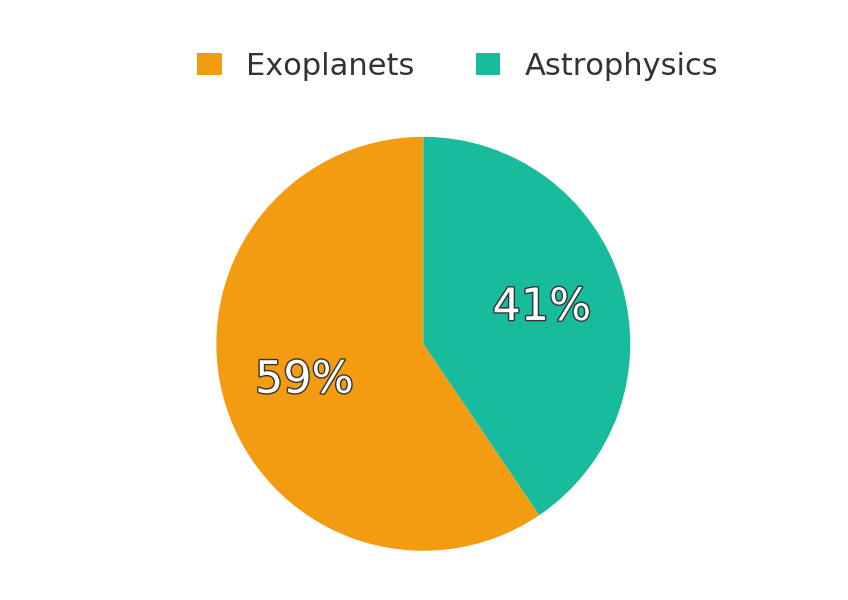
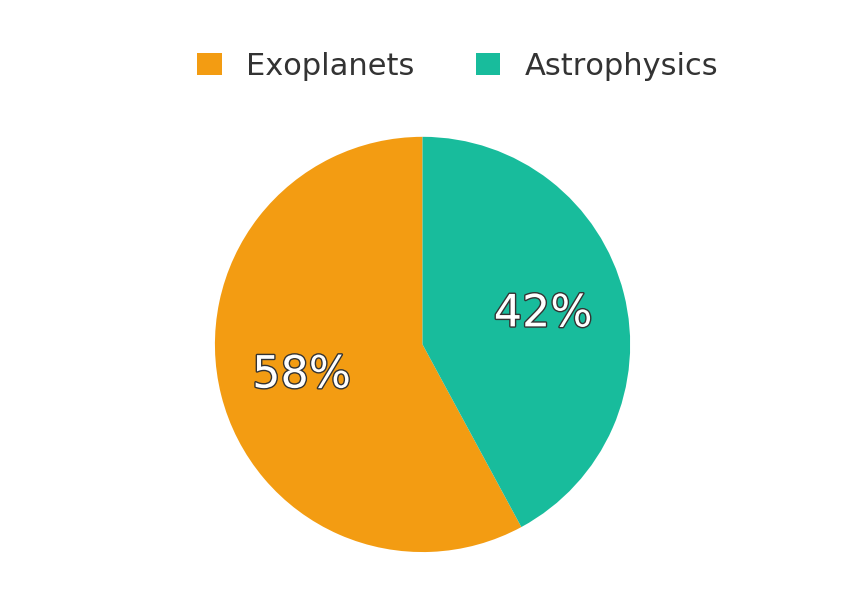
Generate dev site

diff --git a/publications.html b/publications.html
@@ -149,7 +149,7 @@ the TESS mission is provided by the NASA Explorer Program.</em></p>
 <h2 id="publication-database">Publication database</h2>
 <p>The TESS Science Support Center curates a list of scientific publications
 pertaining to TESS.
-The database contains 37 publications,
+The database contains 38 publications,
 of which 22 are peer-reviewed.
 It demonstrates the important impact of TESS data
 on astronomical research.</p>
@@ -164,7 +164,7 @@ on astronomical research.</p>
 </ul>
 <p>If you spot an error in the database, such as a missing entry,
 please get in touch or open an issue in the <a href="https://github.com/tessgi/tpub">GitHub repository</a> of the database.</p>
-<p>Last update: 24 Aug 2017.</p>
+<p>Last update: 10 Sep 2017.</p>
 <hr/>
 <h2 id="breakdown-by-year-mission">Breakdown by year &amp; mission</h2>
 <p>The graph below shows the number of publications as a function
@@ -175,15 +175,15 @@ of year.</p>
 <p>Both TESS data have been used for scientific applications
 that reach far beyond exoplanet research.
 While 22 works relate to exoplanets
-(59%),
-a total of 15
+(58%),
+a total of 16
 pertain to other areas of astrophysics
-(41%).</p>
+(42%).</p>
 <p><img alt="Publications by subject" src="images/tpub/tpub-piechart.png"/></p>
 <hr/>
 <h2 id="most-cited-publications">Most-cited publications</h2>
 <p>TESS publications have cumulatively been cited
-413 times.
+434 times.
 The list below shows the most-cited publications,
 based on the citation count obtained from NASA ADS.</p>
 <ol>
@@ -191,25 +191,25 @@ based on the citation count obtained from NASA ADS.</p>
 <p>TRANSITING EXOPLANET SURVEY SATELLITE (TESS)<br/>
 Ricker, George R., Winn, Joshua N., Vanderspek, Roland, et al.  <br/>
 <a href="http://adsabs.harvard.edu/abs/2015JATIS...1a4003R">2015JATIS...1a4003R</a>
-<span class="badge">151 citations</span></p>
+<span class="badge">159 citations</span></p>
 </li>
 <li>
 <p>THE TRANSITING EXOPLANET SURVEY SATELLITE: SIMULATIONS OF PLANET DETECTIONS AND ASTROPHYSICAL FALSE POSITIVES<br/>
 Sullivan, Peter W., Winn, Joshua N., Berta-Thompson, Zachory K., et al.  <br/>
 <a href="http://adsabs.harvard.edu/abs/2015ApJ...809...77S">2015ApJ...809...77S</a>
-<span class="badge">70 citations</span></p>
+<span class="badge">74 citations</span></p>
 </li>
 <li>
 <p>CHARACTERIZING TRANSITING PLANET ATMOSPHERES THROUGH 2025<br/>
 Cowan, N. B., Greene, T., Angerhausen, D., et al.  <br/>
 <a href="http://adsabs.harvard.edu/abs/2015PASP..127..311C">2015PASP..127..311C</a>
-<span class="badge">32 citations</span></p>
+<span class="badge">35 citations</span></p>
 </li>
 <li>
 <p>UNDERSTANDING THE EFFECTS OF STELLAR MULTIPLICITY ON THE DERIVED PLANET RADII FROM TRANSIT SURVEYS: IMPLICATIONS FOR KEPLER, K2, AND TESS<br/>
 Ciardi, David R., Beichman, Charles A., Horch, Elliott P., et al.  <br/>
 <a href="http://adsabs.harvard.edu/abs/2015ApJ...805...16C">2015ApJ...805...16C</a>
-<span class="badge">24 citations</span></p>
+<span class="badge">26 citations</span></p>
 </li>
 <li>
 <p>THE TRANSITING EXOPLANET SURVEY SATELLITE MISSION<br/>
@@ -262,7 +262,7 @@ within the last 90 days.
 <!-- ## Most-active authors
 
 The entries in the publication database have been authored and co-authored
-by a total of 223 unique author names.
+by a total of 237 unique author names.
 Here we list the most-active authors, defined as those with six or more first-author publications in our database.
 
 -->

diff --git a/tpub-astrophysics-by-month.html b/tpub-astrophysics-by-month.html
@@ -34,13 +34,13 @@ in August 2015, using pelican-bootstrap and flatly.
 <link rel="canonical" href="./pages/tess-astrophysics-publications-by-month.html">
 
         <meta name="author" content="Thomas Barclay" />
-        <meta name="description" content="2017-07 THE TESS-HERMES SURVEY DATA RELEASE 1: HIGH-RESOLUTION SPECTROSCOPY OF THE TESS SOUTHERN CONTINUOUS VIEWING ZONE Sharma, Sanjib, Stello, Dennis, Buder, Sven, et al. 2017, pre-print (2017arXiv170705753S) 2017-06 THE TESS INPUT CATALOG AND CANDIDATE TARGET LIST Stassun, Keivan G., Oelkers, Ryan J., Pepper, Joshua, et al. 2017, pre-print (2017arXiv170600495S) 2017-04 …" />
+        <meta name="description" content="2017-08 MULTI-BAND PHOTOMETRY AND SPECTROSCOPY OF AN ALL-SKY SAMPLE OF BRIGHT WHITE DWARFS Raddi, R., Gentile Fusillo, N. P., Pala, A. F., et al. 2017, pre-print (2017arXiv170809394R) 2017-07 THE TESS-HERMES SURVEY DATA RELEASE 1: HIGH-RESOLUTION SPECTROSCOPY OF THE TESS SOUTHERN CONTINUOUS VIEWING ZONE Sharma, Sanjib, Stello, Dennis, Buder, Sven, et …" />
 
     <meta property="og:site_name" content="TESS" />
     <meta property="og:type" content="article"/>
     <meta property="og:title" content="TESS astrophysics publications by month"/>
     <meta property="og:url" content="./pages/tess-astrophysics-publications-by-month.html"/>
-    <meta property="og:description" content="2017-07 THE TESS-HERMES SURVEY DATA RELEASE 1: HIGH-RESOLUTION SPECTROSCOPY OF THE TESS SOUTHERN CONTINUOUS VIEWING ZONE Sharma, Sanjib, Stello, Dennis, Buder, Sven, et al. 2017, pre-print (2017arXiv170705753S) 2017-06 THE TESS INPUT CATALOG AND CANDIDATE TARGET LIST Stassun, Keivan G., Oelkers, Ryan J., Pepper, Joshua, et al. 2017, pre-print (2017arXiv170600495S) 2017-04 …" />
+    <meta property="og:description" content="2017-08 MULTI-BAND PHOTOMETRY AND SPECTROSCOPY OF AN ALL-SKY SAMPLE OF BRIGHT WHITE DWARFS Raddi, R., Gentile Fusillo, N. P., Pala, A. F., et al. 2017, pre-print (2017arXiv170809394R) 2017-07 THE TESS-HERMES SURVEY DATA RELEASE 1: HIGH-RESOLUTION SPECTROSCOPY OF THE TESS SOUTHERN CONTINUOUS VIEWING ZONE Sharma, Sanjib, Stello, Dennis, Buder, Sven, et …" />
 
 
     <!-- Why use Helvetica Neue when you can have Lato? -->
@@ -143,6 +143,12 @@ in August 2015, using pelican-bootstrap and flatly.
             <h1 class="entry-title">TESS astrophysics publications by month</h1>
             <div class="entry-content">
                 
+<h2 id="2017-08">2017-08</h2>
+<ol>
+<li><a href="http://adsabs.harvard.edu/abs/2017arXiv170809394R">MULTI-BAND PHOTOMETRY AND SPECTROSCOPY OF AN ALL-SKY SAMPLE OF BRIGHT WHITE DWARFS</a><br/>
+Raddi, R., Gentile Fusillo, N. P., Pala, A. F., et al.  <br/>
+2017, pre-print (<a href="http://adsabs.harvard.edu/abs/2017arXiv170809394R">2017arXiv170809394R</a>)  </li>
+</ol>
 <h2 id="2017-07">2017-07</h2>
 <ol>
 <li><a href="http://adsabs.harvard.edu/abs/2017arXiv170705753S">THE TESS-HERMES SURVEY DATA RELEASE 1: HIGH-RESOLUTION SPECTROSCOPY OF THE TESS SOUTHERN CONTINUOUS VIEWING ZONE</a><br/>
@@ -240,6 +246,7 @@ Gangestad, Joseph W., Henning, Gregory A., Persinger, Randy R., et al.  <br/>
             <div class="nav nav-stacked fixed" id="mytoc">
             <div class="toc">
 <ul>
+<li><a href="#2017-08">2017-08</a></li>
 <li><a href="#2017-07">2017-07</a></li>
 <li><a href="#2017-06">2017-06</a></li>
 <li><a href="#2017-04">2017-04</a></li>

diff --git a/tpub-by-month.html b/tpub-by-month.html
@@ -34,13 +34,13 @@ in August 2015, using pelican-bootstrap and flatly.
 <link rel="canonical" href="./pages/tess-publications-by-month.html">
 
         <meta name="author" content="Thomas Barclay" />
-        <meta name="description" content="2017-07 EXOPLANET CHARACTERIZATION BY MULTI-OBSERVATORY TRANSIT PHOTOMETRY WITH TESS AND CHEOPS Gaidos, E., Kitzmann, D., Heng, K. 2017, refereed (2017MNRAS.468.3418G) THE TESS-HERMES SURVEY DATA RELEASE 1: HIGH-RESOLUTION SPECTROSCOPY OF THE TESS SOUTHERN CONTINUOUS VIEWING ZONE Sharma, Sanjib, Stello, Dennis, Buder, Sven, et al. 2017, pre-print (2017arXiv170705753S) TRENDS IN …" />
+        <meta name="description" content="2017-08 MULTI-BAND PHOTOMETRY AND SPECTROSCOPY OF AN ALL-SKY SAMPLE OF BRIGHT WHITE DWARFS Raddi, R., Gentile Fusillo, N. P., Pala, A. F., et al. 2017, pre-print (2017arXiv170809394R) 2017-07 EXOPLANET CHARACTERIZATION BY MULTI-OBSERVATORY TRANSIT PHOTOMETRY WITH TESS AND CHEOPS Gaidos, E., Kitzmann, D., Heng, K. 2017, refereed (2017MNRAS.468.3418G) THE …" />
 
     <meta property="og:site_name" content="TESS" />
     <meta property="og:type" content="article"/>
     <meta property="og:title" content="TESS publications by month"/>
     <meta property="og:url" content="./pages/tess-publications-by-month.html"/>
-    <meta property="og:description" content="2017-07 EXOPLANET CHARACTERIZATION BY MULTI-OBSERVATORY TRANSIT PHOTOMETRY WITH TESS AND CHEOPS Gaidos, E., Kitzmann, D., Heng, K. 2017, refereed (2017MNRAS.468.3418G) THE TESS-HERMES SURVEY DATA RELEASE 1: HIGH-RESOLUTION SPECTROSCOPY OF THE TESS SOUTHERN CONTINUOUS VIEWING ZONE Sharma, Sanjib, Stello, Dennis, Buder, Sven, et al. 2017, pre-print (2017arXiv170705753S) TRENDS IN …" />
+    <meta property="og:description" content="2017-08 MULTI-BAND PHOTOMETRY AND SPECTROSCOPY OF AN ALL-SKY SAMPLE OF BRIGHT WHITE DWARFS Raddi, R., Gentile Fusillo, N. P., Pala, A. F., et al. 2017, pre-print (2017arXiv170809394R) 2017-07 EXOPLANET CHARACTERIZATION BY MULTI-OBSERVATORY TRANSIT PHOTOMETRY WITH TESS AND CHEOPS Gaidos, E., Kitzmann, D., Heng, K. 2017, refereed (2017MNRAS.468.3418G) THE …" />
 
 
     <!-- Why use Helvetica Neue when you can have Lato? -->
@@ -143,6 +143,12 @@ in August 2015, using pelican-bootstrap and flatly.
             <h1 class="entry-title">TESS publications by month</h1>
             <div class="entry-content">
                 
+<h2 id="2017-08">2017-08</h2>
+<ol>
+<li><a href="http://adsabs.harvard.edu/abs/2017arXiv170809394R">MULTI-BAND PHOTOMETRY AND SPECTROSCOPY OF AN ALL-SKY SAMPLE OF BRIGHT WHITE DWARFS</a><br/>
+Raddi, R., Gentile Fusillo, N. P., Pala, A. F., et al.  <br/>
+2017, pre-print (<a href="http://adsabs.harvard.edu/abs/2017arXiv170809394R">2017arXiv170809394R</a>)  </li>
+</ol>
 <h2 id="2017-07">2017-07</h2>
 <ol>
 <li>
@@ -377,6 +383,7 @@ Gangestad, Joseph W., Henning, Gregory A., Persinger, Randy R., et al.  <br/>
             <div class="nav nav-stacked fixed" id="mytoc">
             <div class="toc">
 <ul>
+<li><a href="#2017-08">2017-08</a></li>
 <li><a href="#2017-07">2017-07</a></li>
 <li><a href="#2017-06">2017-06</a></li>
 <li><a href="#2017-05">2017-05</a></li>

diff --git a/tpub-astrophysics.html b/tpub-astrophysics.html
@@ -34,13 +34,13 @@ in August 2015, using pelican-bootstrap and flatly.
 <link rel="canonical" href="./pages/tess-astrophysics-publications.html">
 
         <meta name="author" content="Thomas Barclay" />
-        <meta name="description" content="2017 THE TESS-HERMES SURVEY DATA RELEASE 1: HIGH-RESOLUTION SPECTROSCOPY OF THE TESS SOUTHERN CONTINUOUS VIEWING ZONE Sharma, Sanjib, Stello, Dennis, Buder, Sven, et al. 2017, pre-print (2017arXiv170705753S) THE TESS INPUT CATALOG AND CANDIDATE TARGET LIST Stassun, Keivan G., Oelkers, Ryan J., Pepper, Joshua, et al. 2017, pre-print (2017arXiv170600495S) ON THE …" />
+        <meta name="description" content="2017 MULTI-BAND PHOTOMETRY AND SPECTROSCOPY OF AN ALL-SKY SAMPLE OF BRIGHT WHITE DWARFS Raddi, R., Gentile Fusillo, N. P., Pala, A. F., et al. 2017, pre-print (2017arXiv170809394R) THE TESS-HERMES SURVEY DATA RELEASE 1: HIGH-RESOLUTION SPECTROSCOPY OF THE TESS SOUTHERN CONTINUOUS VIEWING ZONE Sharma, Sanjib, Stello, Dennis, Buder, Sven, et al …" />
 
     <meta property="og:site_name" content="TESS" />
     <meta property="og:type" content="article"/>
     <meta property="og:title" content="TESS astrophysics publications"/>
     <meta property="og:url" content="./pages/tess-astrophysics-publications.html"/>
-    <meta property="og:description" content="2017 THE TESS-HERMES SURVEY DATA RELEASE 1: HIGH-RESOLUTION SPECTROSCOPY OF THE TESS SOUTHERN CONTINUOUS VIEWING ZONE Sharma, Sanjib, Stello, Dennis, Buder, Sven, et al. 2017, pre-print (2017arXiv170705753S) THE TESS INPUT CATALOG AND CANDIDATE TARGET LIST Stassun, Keivan G., Oelkers, Ryan J., Pepper, Joshua, et al. 2017, pre-print (2017arXiv170600495S) ON THE …" />
+    <meta property="og:description" content="2017 MULTI-BAND PHOTOMETRY AND SPECTROSCOPY OF AN ALL-SKY SAMPLE OF BRIGHT WHITE DWARFS Raddi, R., Gentile Fusillo, N. P., Pala, A. F., et al. 2017, pre-print (2017arXiv170809394R) THE TESS-HERMES SURVEY DATA RELEASE 1: HIGH-RESOLUTION SPECTROSCOPY OF THE TESS SOUTHERN CONTINUOUS VIEWING ZONE Sharma, Sanjib, Stello, Dennis, Buder, Sven, et al …" />
 
 
     <!-- Why use Helvetica Neue when you can have Lato? -->
@@ -145,6 +145,11 @@ in August 2015, using pelican-bootstrap and flatly.
                 
 <h2 id="2017">2017</h2>
 <ol>
+<li>
+<p><a href="http://adsabs.harvard.edu/abs/2017arXiv170809394R">MULTI-BAND PHOTOMETRY AND SPECTROSCOPY OF AN ALL-SKY SAMPLE OF BRIGHT WHITE DWARFS</a><br/>
+Raddi, R., Gentile Fusillo, N. P., Pala, A. F., et al.  <br/>
+2017, pre-print (<a href="http://adsabs.harvard.edu/abs/2017arXiv170809394R">2017arXiv170809394R</a>)  </p>
+</li>
 <li>
 <p><a href="http://adsabs.harvard.edu/abs/2017arXiv170705753S">THE TESS-HERMES SURVEY DATA RELEASE 1: HIGH-RESOLUTION SPECTROSCOPY OF THE TESS SOUTHERN CONTINUOUS VIEWING ZONE</a><br/>
 Sharma, Sanjib, Stello, Dennis, Buder, Sven, et al.  <br/>

diff --git a/tpub.html b/tpub.html
@@ -34,13 +34,13 @@ in August 2015, using pelican-bootstrap and flatly.
 <link rel="canonical" href="./pages/tess-publications.html">
 
         <meta name="author" content="Thomas Barclay" />
-        <meta name="description" content="2017 EXOPLANET CHARACTERIZATION BY MULTI-OBSERVATORY TRANSIT PHOTOMETRY WITH TESS AND CHEOPS Gaidos, E., Kitzmann, D., Heng, K. 2017, refereed (2017MNRAS.468.3418G) THE TESS-HERMES SURVEY DATA RELEASE 1: HIGH-RESOLUTION SPECTROSCOPY OF THE TESS SOUTHERN CONTINUOUS VIEWING ZONE Sharma, Sanjib, Stello, Dennis, Buder, Sven, et al. 2017, pre-print (2017arXiv170705753S) TRENDS IN …" />
+        <meta name="description" content="2017 MULTI-BAND PHOTOMETRY AND SPECTROSCOPY OF AN ALL-SKY SAMPLE OF BRIGHT WHITE DWARFS Raddi, R., Gentile Fusillo, N. P., Pala, A. F., et al. 2017, pre-print (2017arXiv170809394R) EXOPLANET CHARACTERIZATION BY MULTI-OBSERVATORY TRANSIT PHOTOMETRY WITH TESS AND CHEOPS Gaidos, E., Kitzmann, D., Heng, K. 2017, refereed (2017MNRAS.468.3418G) THE TESS-HERMES …" />
 
     <meta property="og:site_name" content="TESS" />
     <meta property="og:type" content="article"/>
     <meta property="og:title" content="TESS publications"/>
     <meta property="og:url" content="./pages/tess-publications.html"/>
-    <meta property="og:description" content="2017 EXOPLANET CHARACTERIZATION BY MULTI-OBSERVATORY TRANSIT PHOTOMETRY WITH TESS AND CHEOPS Gaidos, E., Kitzmann, D., Heng, K. 2017, refereed (2017MNRAS.468.3418G) THE TESS-HERMES SURVEY DATA RELEASE 1: HIGH-RESOLUTION SPECTROSCOPY OF THE TESS SOUTHERN CONTINUOUS VIEWING ZONE Sharma, Sanjib, Stello, Dennis, Buder, Sven, et al. 2017, pre-print (2017arXiv170705753S) TRENDS IN …" />
+    <meta property="og:description" content="2017 MULTI-BAND PHOTOMETRY AND SPECTROSCOPY OF AN ALL-SKY SAMPLE OF BRIGHT WHITE DWARFS Raddi, R., Gentile Fusillo, N. P., Pala, A. F., et al. 2017, pre-print (2017arXiv170809394R) EXOPLANET CHARACTERIZATION BY MULTI-OBSERVATORY TRANSIT PHOTOMETRY WITH TESS AND CHEOPS Gaidos, E., Kitzmann, D., Heng, K. 2017, refereed (2017MNRAS.468.3418G) THE TESS-HERMES …" />
 
 
     <!-- Why use Helvetica Neue when you can have Lato? -->
@@ -145,6 +145,11 @@ in August 2015, using pelican-bootstrap and flatly.
                 
 <h2 id="2017">2017</h2>
 <ol>
+<li>
+<p><a href="http://adsabs.harvard.edu/abs/2017arXiv170809394R">MULTI-BAND PHOTOMETRY AND SPECTROSCOPY OF AN ALL-SKY SAMPLE OF BRIGHT WHITE DWARFS</a><br/>
+Raddi, R., Gentile Fusillo, N. P., Pala, A. F., et al.  <br/>
+2017, pre-print (<a href="http://adsabs.harvard.edu/abs/2017arXiv170809394R">2017arXiv170809394R</a>)  </p>
+</li>
 <li>
 <p><a href="http://adsabs.harvard.edu/abs/2017MNRAS.468.3418G">EXOPLANET CHARACTERIZATION BY MULTI-OBSERVATORY TRANSIT PHOTOMETRY WITH TESS AND CHEOPS</a><br/>
 Gaidos, E., Kitzmann, D., Heng, K.  <br/>
